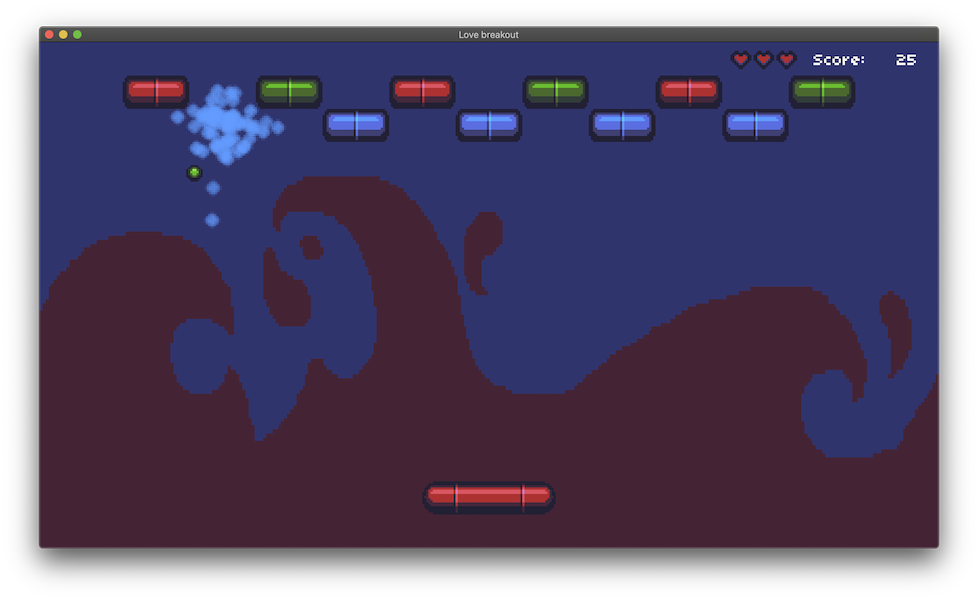
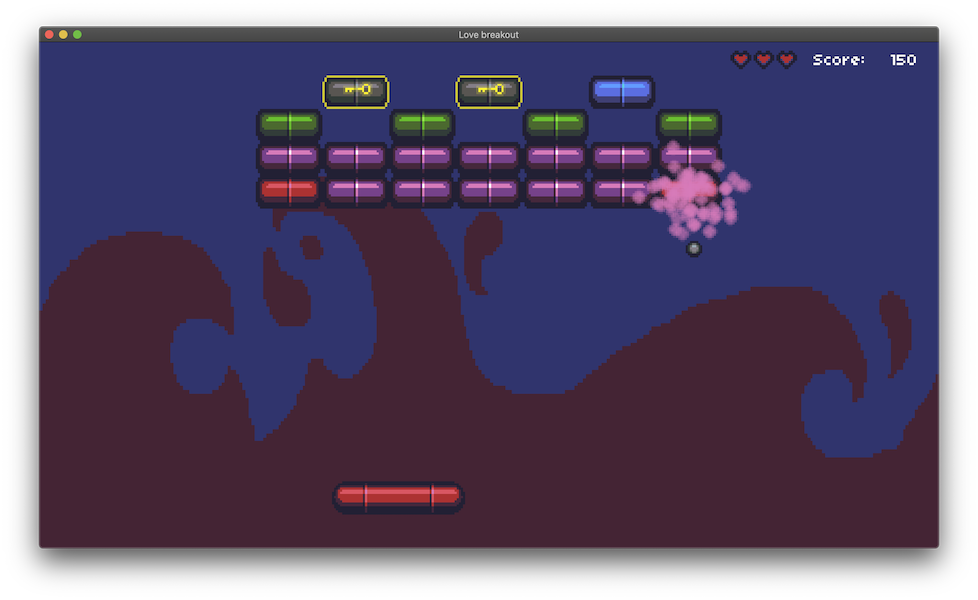
powerups screenshot was added

diff --git a/README.md b/README.md
@@ -6,6 +6,10 @@ Simple breakout game written with Lua and Love2D
 
 ![gameplay screen](./screenshots/gameplay.png)
 
+## gameplay with powerups
+
+![powerups screen](./screenshots/powerups.png)
+
 ## start screen
 
 ![start screen](./screenshots/main_menu.png)
